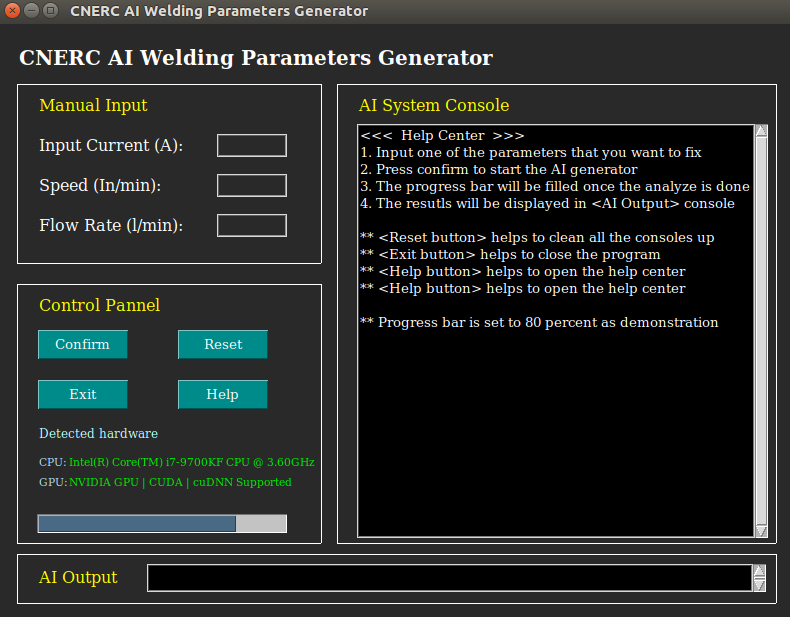
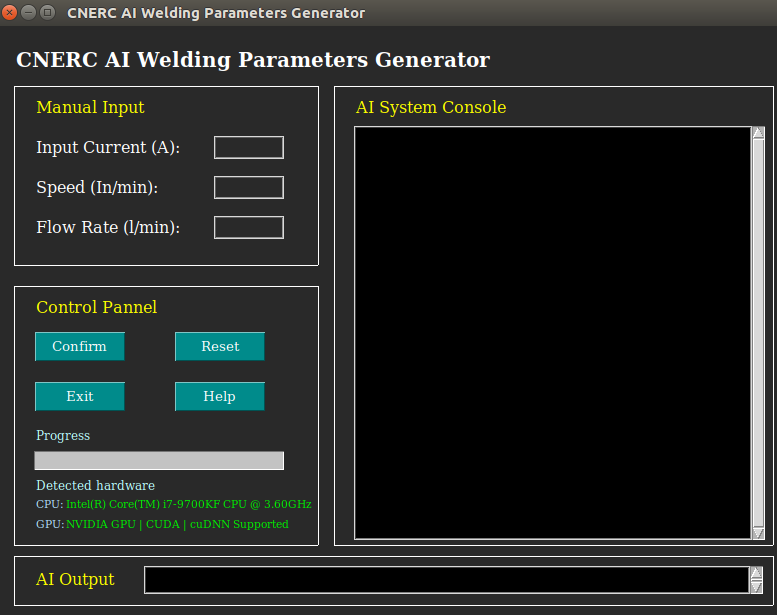
rearrange gui

Changed region(s): [[0.0, 0.0618, 1.0, 0.9886], [0.2162, 0.5252, 0.3398, 0.6797], [0.0, 0.0, 0.4633, 0.0309]]

diff --git a/gui_app_generator/app_main.py b/gui_app_generator/app_main.py
@@ -18,11 +18,9 @@ def hardware_monitor_event():
     gs.cpu_info = get_cpu_info()
     gs.cpu_model = gs.cpu_info['brand_raw']
 
-
 def clear_console(console):
     #Clear console contents
     console.delete('1.0',END)
-
 
 def update_console(console,text):
     console.configure(state='normal')
@@ -157,6 +155,11 @@ def draw_control_boundary(gui_window):
         bg=app_info.app_input1_bg,fg=app_info.crtl_hardware_label_color) 
     hard_label.place(x=app_info.crtl_hardware_label_x,y=app_info.crtl_hardware_label_y)
 
+    #Progress:
+    fontStyle = tkFont.Font(family=app_info.bar_text_fontstyle, size=app_info.bar_text_font_size)
+    progress_label = tk.Label(gui_window, text=app_info.bar_text, font=fontStyle,\
+        bg=app_info.app_input1_bg,fg=app_info.bar_text_color)
+    progress_label.place(x=app_info.bar_text_x,y=app_info.bar_text_y)
 
     #CPU:
     fontStyle = tkFont.Font(family=app_info.app_input1_fontstyle, size=app_info.crtl_cpu_label_size)
@@ -307,11 +310,9 @@ def main():
 
     #Import progress bar
     gs.bar = progress_bar_init(gs.control_area)
- 
 
     #Import AI output console
     gs.ai_console = ai_console_output(gs.output_area)
-
 
     if(debug_test):
         #update progress bar

diff --git a/gui_app_generator/app_info.py b/gui_app_generator/app_info.py
@@ -160,14 +160,14 @@ crtl_label_text_color = 'yellow'
 crtl_hardware_label = "Detected hardware"
 crtl_hardware_label_size = 9
 crtl_hardware_label_x = 20
-crtl_hardware_label_y = 140
+crtl_hardware_label_y = 190
 crtl_hardware_label_color = "PaleTurquoise1"
 
 
 #CPU monitor
 crtl_cpu_label_1 = "CPU:"
 crtl_cpu_label_x = 20
-crtl_cpu_label_y = 170
+crtl_cpu_label_y = 210
 crtl_cpu_label_color = "LightSkyBlue1"
 crtl_cpu_label_size = 8
 
@@ -178,7 +178,7 @@ crtl_cpu_model_color = "green2"
 #GPU monitor check
 crtl_gpu_label_1 = "GPU:"
 crtl_gpu_label_x = 20
-crtl_gpu_label_y = 190
+crtl_gpu_label_y = 230
 crtl_gpu_label_color = "LightSkyBlue1"
 crtl_gpu_label_size = 8
 crtl_gpu_model_x = 50
@@ -278,8 +278,14 @@ text_box_y = 40
 
 #progress bar
 #--------------------------------------------------------------------
+bar_text_fontstyle = "DejaVu Serif"
+bar_text = "Progress"
+bar_text_font_size = crtl_hardware_label_size
+bar_text_color = crtl_hardware_label_color
+bar_text_x = 20
+bar_text_y = 140
 bar_x = 20
-bar_y = 230
+bar_y = 165
 bar_length = 250
 #--------------------------------------------------------------------
 
